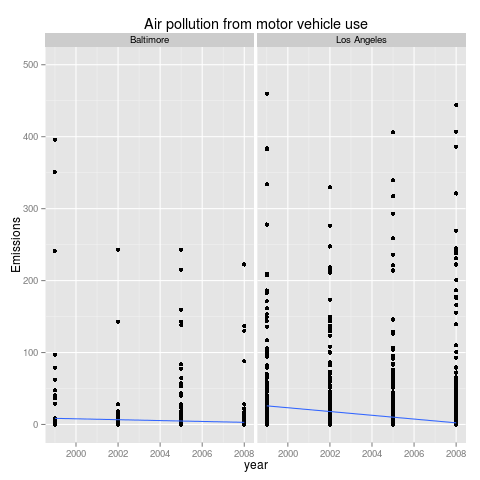
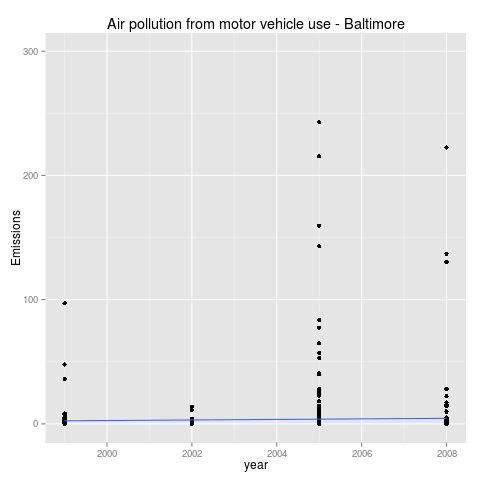
Plot5 split to plots 5 and 6 to better fit marking rubric.

diff --git a/README.md b/README.md
@@ -42,26 +42,23 @@ How have emissions from coal realated sources changed?
 Coal related emissions rose between 1999 and 2002 but have remained relatively constant since 2002.
 
 
-*plot5* Compare emissions from motor vehicle sources in Baltimore City with emissions from motor vehicle sources in Los Angeles County, California (fips == "06037"). Which city has seen greater changes over time in motor vehicle emissions?
-
+*plot5*  Shows emissions from motor vehicle sources in Baltimore City with emissions 
 Definitions: I have chosen "Emissions from Motor Vehicle Sources" to include Emissions from Highway Vehicle Use  (i.e. all SCS that include "Highway Veh")  I have excluded emissions from motor vehicle manufacture and maintenance and emissions from the transport, storage and sale of motor vehicle fuels.
 
 ![Baltimore vehicle emissions are lower overall, and have fell slightly.  Los Angeles vehicle emissions are higher and much more variable, over time and on average, have fallen more than Baltimore's](plot5.png)
 
-Motor vehicle emissions in both Baltimore than Los Angeles have fallen since 1999.
-Baltimore's fall in emissions is much smaller than Los Angeles
 
-The emissions data in Los Angeles is much more variable with some sites with very high emissions levels.
+*plot6* Shows emissions from Los Angeles County, California (fips == "06037"). Which city has seen greater changes over time in motor vehicle emissions?
 
-
-
-*plot6* Compare emissions from motor vehicle sources in Baltimore City with emissions from motor vehicle sources in Los Angeles County, California (fips == "06037"). Which city has seen greater changes over time in motor vehicle emissions?
-
-Definitions: I have chosen "Emissions from Motor Vehicle Sources" to include Emissions from Highway Vehicle Use  (i.e. all SCS that include "Highway Veh")  I have excluded emissions from motor vehicle manufacture and maintenance and emissions from the transport, storage and sale of motor vehicle fuels.
-
-![Baltimore vehicle emissions are lower overall, and have fell slightly.  Los Angeles vehicle emissions are higher and much more variable, over time and on average, have fallen more than Baltimore's](plot6.png)
+![Los Angeles Vehicle Emissions](plot6.png)
 
 Motor vehicle emissions in both Baltimore than Los Angeles have fallen since 1999.
 Baltimore's fall in emissions is much smaller than Los Angeles
 
 The emissions data in Los Angeles is much more variable with some sites with very high emissions levels.
+
+
+Motor vehicle emissions in both Baltimore than Los Angeles have fallen since 1999.
+Baltimore's fall in emissions is much smaller than Los Angeles
+
+The emissions data in Los Angeles is much more variable with some sites with very high emissions levels (not all are shown).
